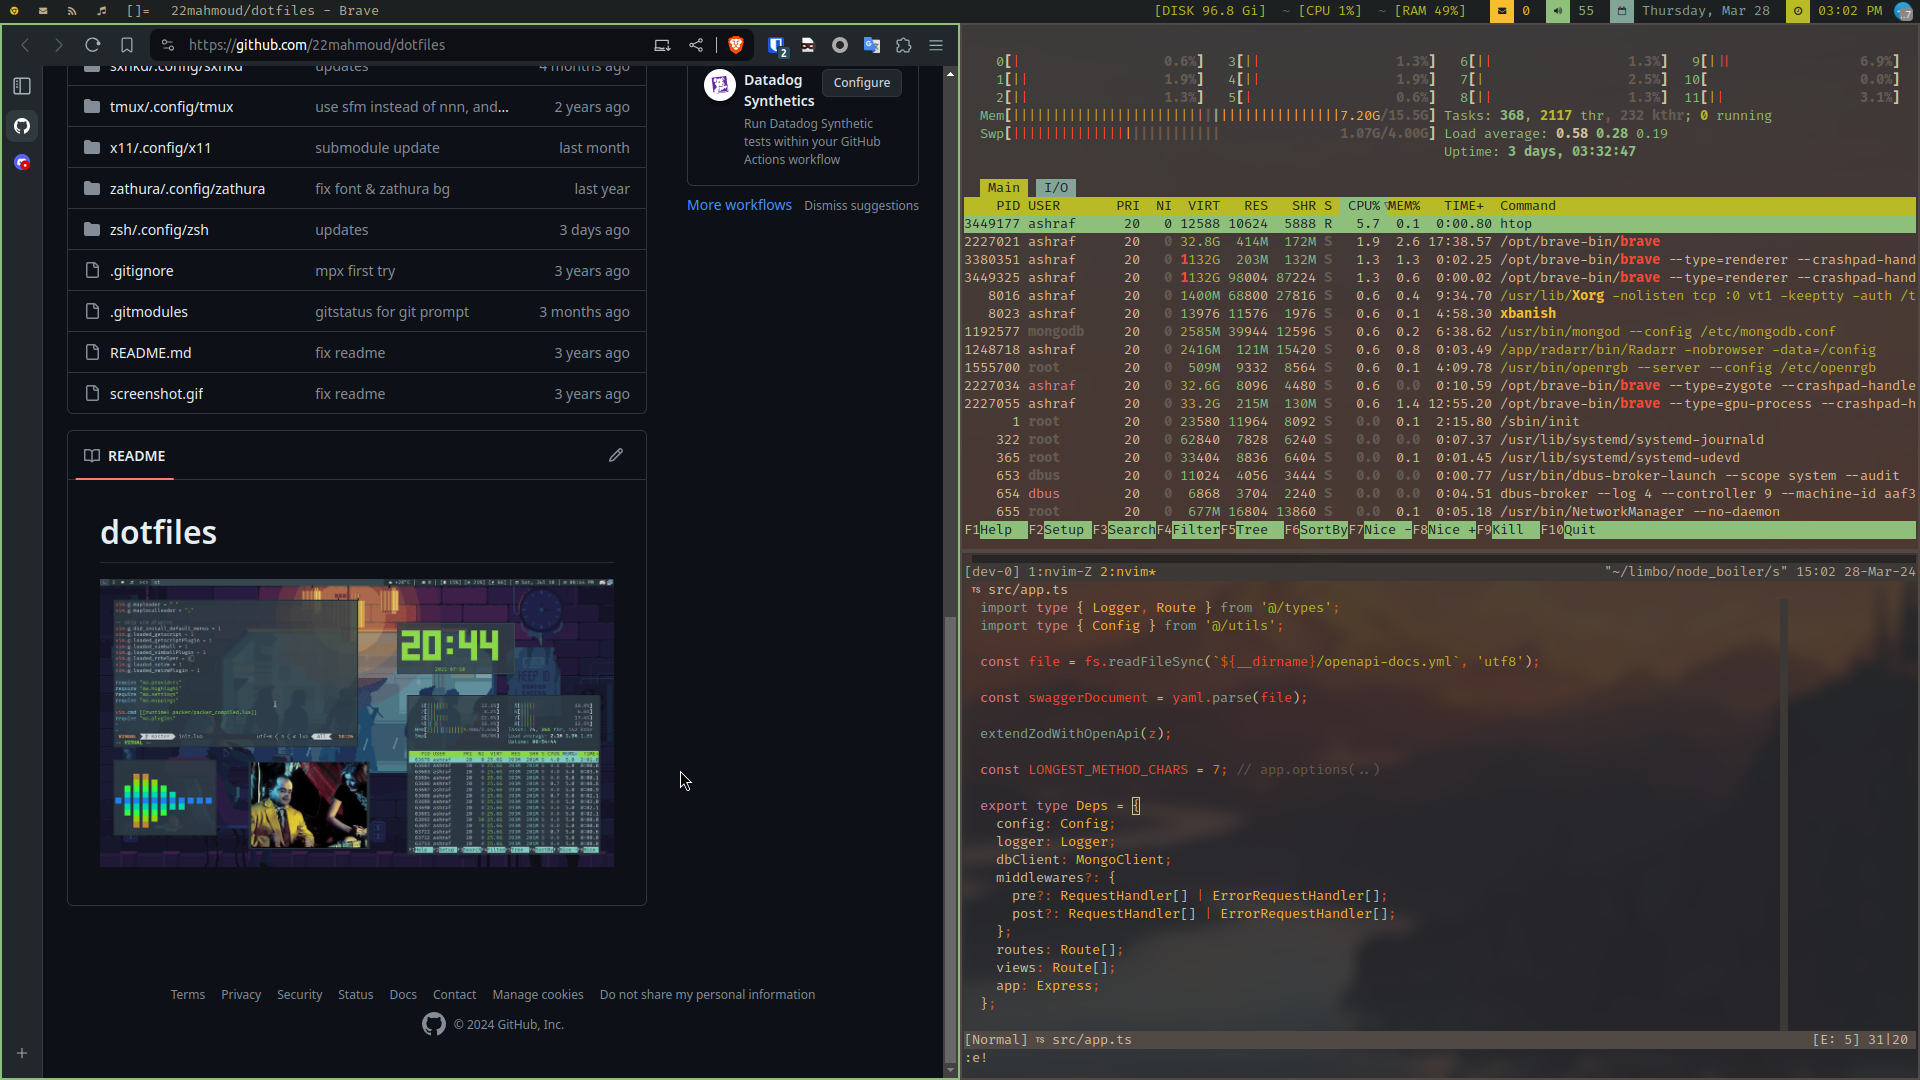
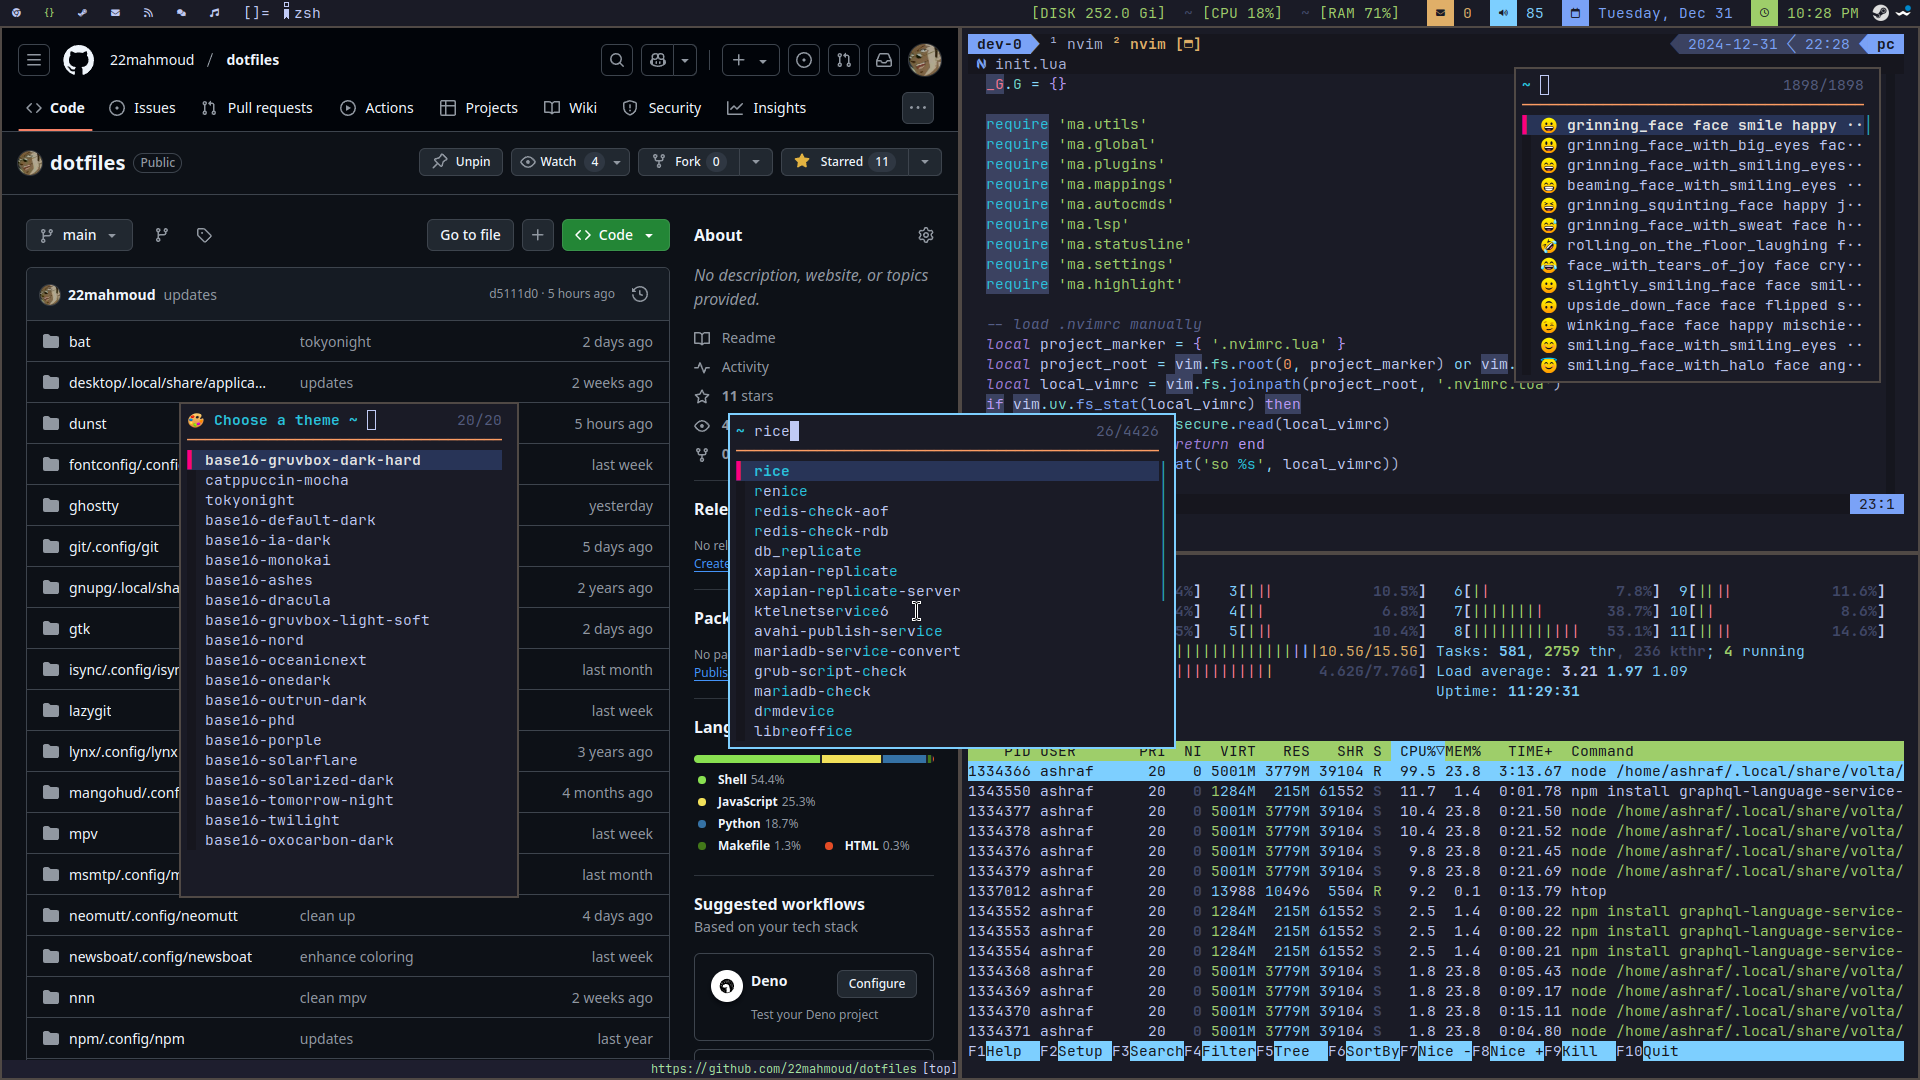
update screenshot

diff --git a/README.md b/README.md
@@ -1,3 +1,3 @@
-# dotfiles
+# Mahmoud Ashraf's Dotfiles 🎨
 
 ![screenshot](screenshot.png)
